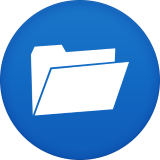
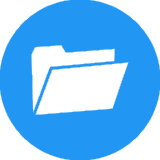
Modif Wallpaper + icones

diff --git a/app/views/home.scala.html b/app/views/home.scala.html
@@ -14,7 +14,7 @@
                             @*</div>*@
                             <div class="row">
                                 <a class="col s4" href="/projet">
-                                    <img class="center-align responsive-img imgHome" src='/assets/images/menu/projet02.png' align="middle" title="Projet">
+                                    <img class="center-align responsive-img imgHome" src='/assets/images/menu/projet01.png' align="middle" title="Projet">
                                     <span class="center-align" style="display: block;">Projet</span>
                                 </a>
                                 <a class="col s4" href="">

diff --git a/app/views/main.scala.html b/app/views/main.scala.html
@@ -18,7 +18,7 @@
         <script src='/assets/javascripts/views/menu.js' type="text/javascript"></script>
         <script src='/assets/javascripts/jquery.touchSwipe.min.js' type="text/javascript"></script>
     </head>
-    <body style="background:#f3f3f3 ;">
+    <body>
         <header>
             <nav class="top-nav light-blue">
                 <div class="container" style="height: inherit;">

diff --git a/public/stylesheets/main.css b/public/stylesheets/main.css
@@ -168,3 +168,8 @@ textarea.materialize-textarea:focus:not([readonly])+label {
         width: 85%;
     }
 }
+body
+{
+    background-image: url(/assets/images/03.jpg)
+}
+
